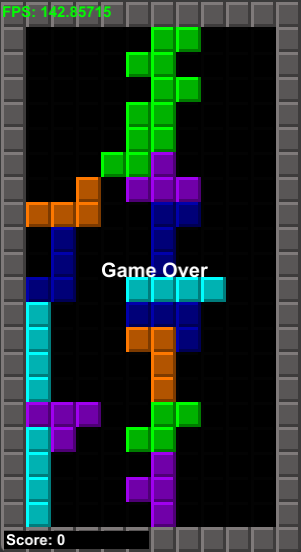
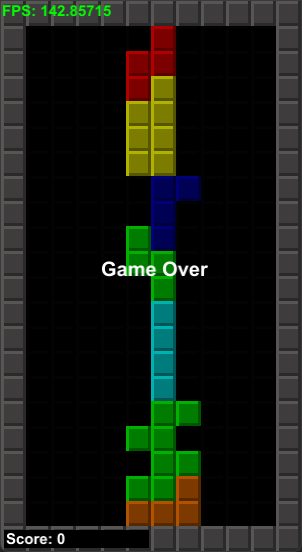
Make the game over screen have a darker overlay.

diff --git a/src/main/kotlin/Tetris2DGraphics.kt b/src/main/kotlin/Tetris2DGraphics.kt
@@ -38,7 +38,7 @@ class Tetris2DGraphics(
         val height = 25
         repeat(12) { x ->
             repeat(22) { y ->
-                val color = if (gameCapture.tetris.playing) gameCapture.tetris.getColor(x, y) else gameCapture.tetris.getColor(x, y).darker()
+                val color = if (gameCapture.tetris.playing) gameCapture.tetris.getColor(x, y) else gameCapture.tetris.getColor(x, y).darker().darker()
                 gl.color = color
                 gl.fillRect((x * 25) + 3, (y * 25) + 3, width - 2, height - 2)
                 gl.color = color.brighter()
